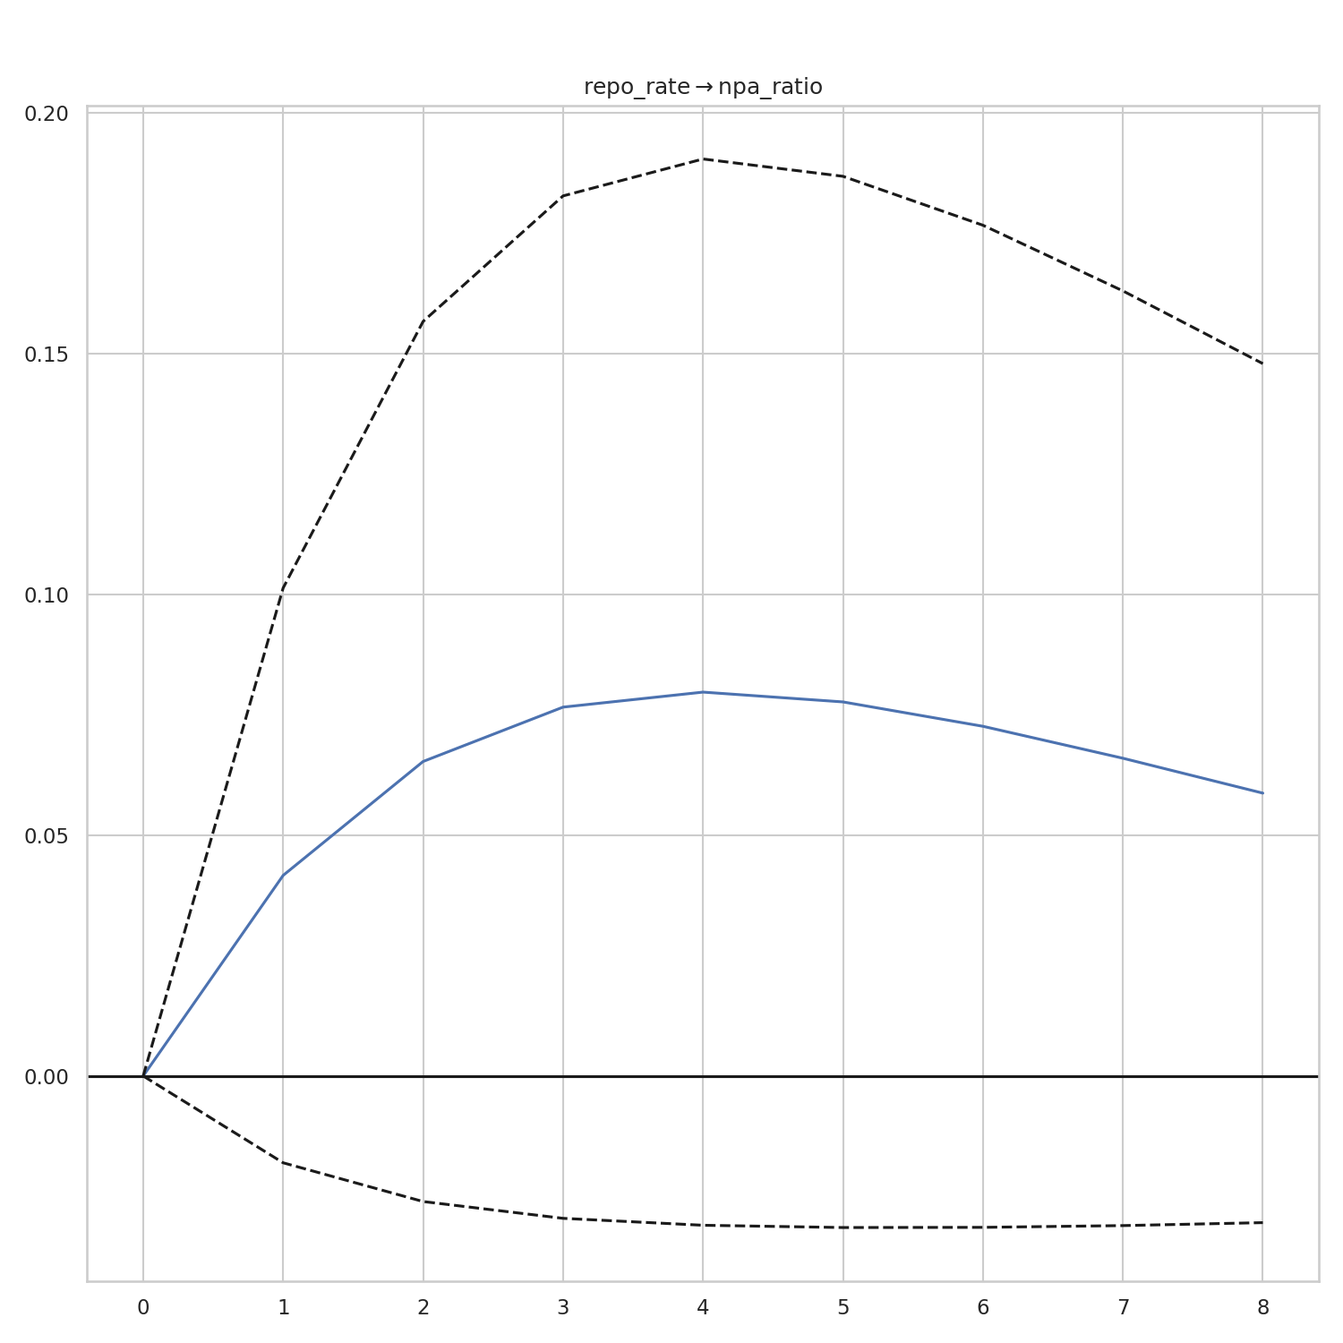
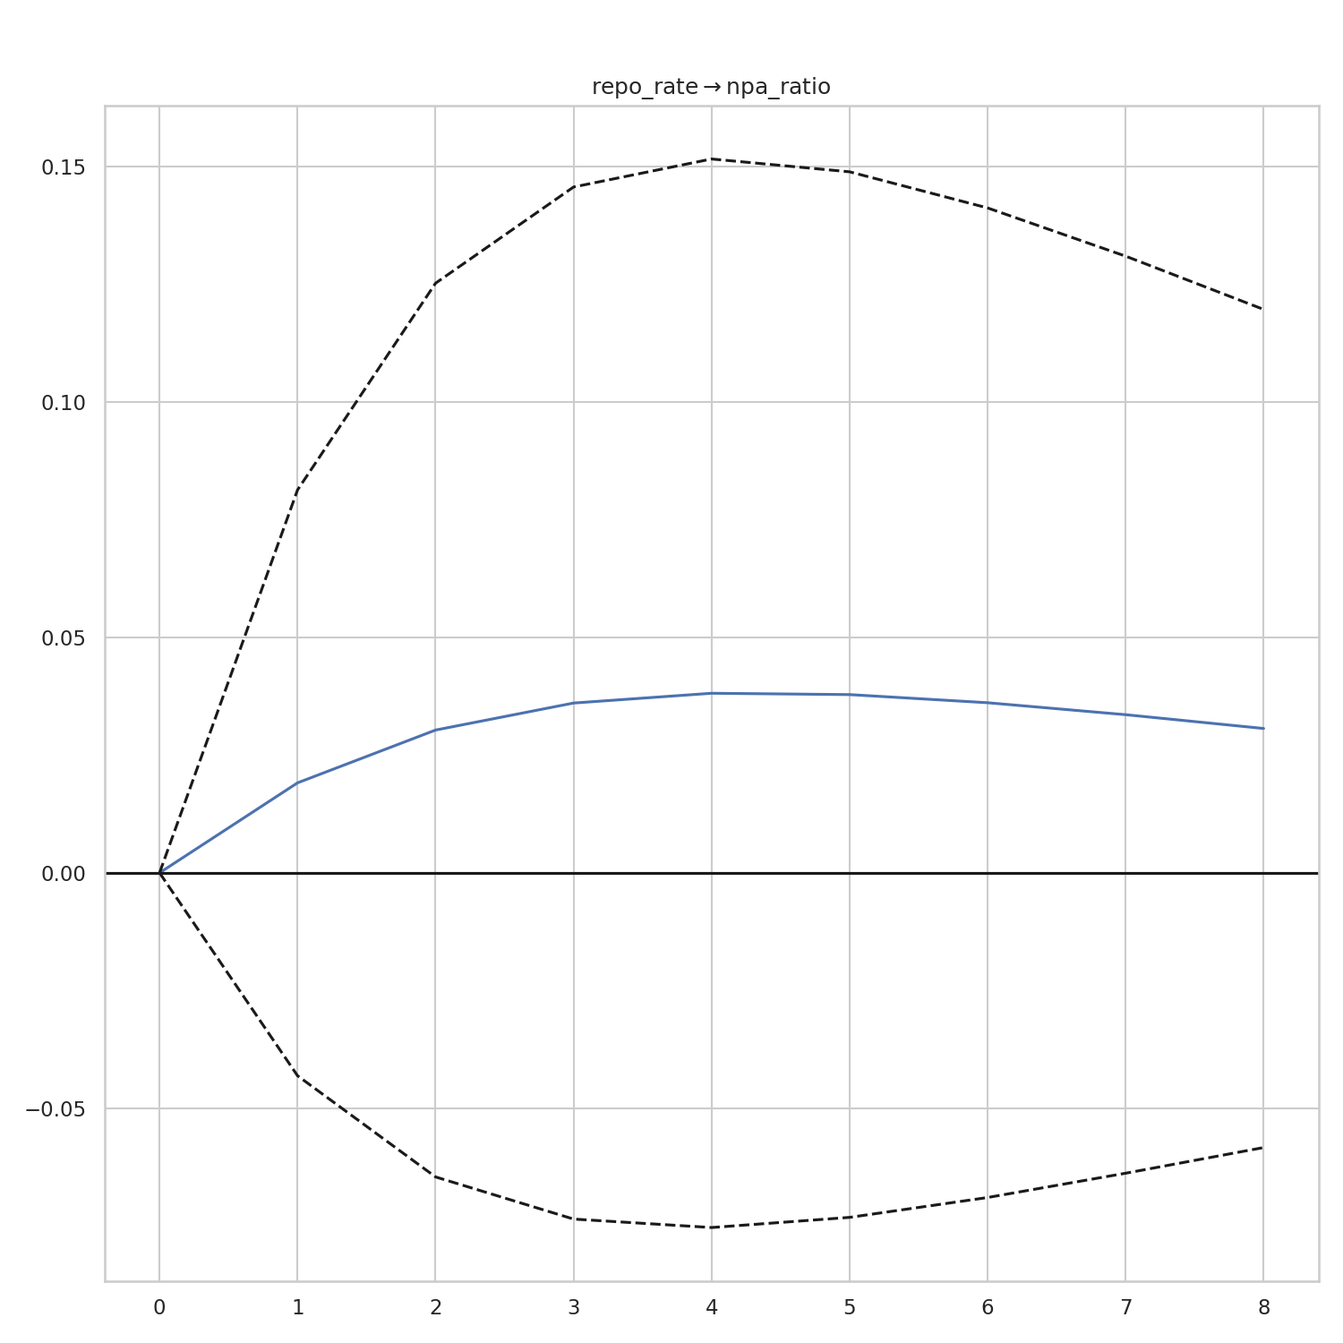
Fix VAR preprocessing and reporting

diff --git a/analysis.py b/analysis.py
@@ -260,6 +260,7 @@ def prepare_member_b_methods(
             "## Lag Selection",
             f"- Chosen lag order = {chosen_lag} using {choice_rule}.",
             "- Full information-criterion table is saved in `outputs/var_lag_order.csv`.",
+            "- Note that AIC selected lag=5 while BIC selected lag=1; this large gap is itself a signal that the short interpolated sample does not contain enough independent information to distinguish between lag structures reliably.",
             "",
             "## Diagnostics",
             f"- VAR stable = {stable}. Stability plot saved to `outputs/var_stability.png`.",
@@ -323,8 +324,8 @@ def prepare_member_c_results(
 
 
 def prepare_report(
-    min_year: int,
-    max_year: int,
+    sample_start: str,
+    sample_end: str,
     timeline_note: str,
     adf_df: pd.DataFrame,
     diff_cols: list[str],
@@ -362,7 +363,7 @@ def prepare_report(
             "# RBI Rate Policy and Bank Stress: VAR Analysis",
             "",
             "## Data",
-            f"We construct a quarterly panel from {min_year}Q1 to {max_year}Q4 using three series for India. "
+            f"We construct a quarterly panel from {sample_start} to {sample_end} using three series for India. "
             "The Gross NPA ratio comes from RBI Statistical Tables for All Scheduled Commercial Banks. "
             "The two macro-financial controls come from the provided World Bank files: real interest rate as the repo-rate proxy and real GDP growth as the output control. "
             "Because the World Bank files are annual, they are linearly interpolated to quarterly frequency to match the project brief. "
@@ -399,6 +400,7 @@ def prepare_report(
             "- The original credit-growth control was dropped because the provided World Bank credit series for India ends in 2021.",
             "- The project files do not contain the literal RBI repo-rate series, so the real interest rate is used as a proxy.",
             "- RBI NPA values are reported at the March fiscal year-end; we align them to calendar Q1 of the named year, while the World Bank annual series remain a coarse calendar-year proxy.",
+            "- GDP growth (World Bank NY.GDP.MKTP.KD.ZG) is already a percentage-change series; the ADF test classified it as non-stationary so it was differenced once, meaning the VAR uses the quarter-on-quarter change in GDP growth (acceleration), not the growth rate itself.",
             "- Results should be presented as indicative rather than as a definitive structural causal estimate.",
             "",
             "## Outputs",
@@ -422,6 +424,7 @@ def prepare_slides(
     npa_to_repo_p: float,
     peak_idx: int,
     peak_val: float,
+    whiteness_p: float,
 ) -> str:
     return "\n".join(
         [
@@ -434,7 +437,7 @@ def prepare_slides(
             "2013-2018 NPA spike, macro stress, and possible policy feedback.",
             "",
             "3. Data",
-            "Three series, 2005Q1-2022Q4, RBI + World Bank, annual macro data interpolated to quarterly frequency. Explain that the credit-growth control was dropped because its source coverage ended in 2021.",
+            "Three series, 2005Q4-2022Q1, RBI + World Bank, annual macro data interpolated to quarterly frequency. Explain that the credit-growth control was dropped because its source coverage ended in 2021.",
             "",
             "4. Timeline plot",
             "Use `outputs/timeline.png`; highlight the 2015-16 tightening window.",
@@ -443,10 +446,10 @@ def prepare_slides(
             "Use `outputs/adf_results.csv`; explain which series were differenced and note that annual-to-quarterly interpolation can create overly smooth stationarity patterns.",
             "",
             "6. VAR setup",
-            f"Lag order = {chosen_lag}; explain why BIC/AIC was used and that the final model is a 3-variable VAR.",
+            f"Lag order = {chosen_lag}; explain why BIC/AIC was used and that the final model is a 3-variable VAR. Note: AIC disagrees, selecting lag=5, so mention this gap explicitly.",
             "",
             "7. Diagnostics and stability",
-            "VAR is stable (all inverse roots inside unit circle). Durbin-Watson ~= 2 across equations - no severe autocorrelation. Portmanteau test flags residual correlation (p = 0.001), likely from annual->quarterly interpolation smoothness and repeated within-year first differences. Model is treated as indicative, not structural.",
+            f"VAR is stable (all inverse roots inside unit circle). Durbin-Watson ~= 2 across equations - no severe autocorrelation. Portmanteau test flags residual correlation (p = {whiteness_p:.4f}), likely from annual->quarterly interpolation smoothness and repeated within-year first differences. Model is treated as indicative, not structural.",
             "",
             "8. Granger causality",
             f"Repo -> NPA p-value = {repo_to_npa_p:.4f}; NPA -> Repo p-value = {npa_to_repo_p:.4f}.",
@@ -465,6 +468,7 @@ def prepare_slides(
             "",
             "Portmanteau test flags residual whiteness issue - standard caveat for interpolated short panels. A robustness check with true quarterly RBI repo and credit data would resolve this.",
             "NPA observations are fiscal-year-end (March) values aligned to Q1, so there is still some calendar/fiscal timing approximation in the merged panel.",
+            "GDP growth is already a percentage-change series, but it was differenced after the ADF test classified it as non-stationary, so the VAR uses changes in GDP growth rather than the growth rate itself.",
         ]
     )
 
@@ -493,12 +497,15 @@ def main() -> None:
             name,
             min_year,
             max_year,
-            anchor_quarter=1 if name == "npa_ratio" else 4,
+            anchor_quarter=1,
         )
         for name, df in series_meta.items()
     }
     data = pd.DataFrame(quarterly)
+    data = data.loc["2005Q4":"2022Q1"]
     data.index.name = "quarter"
+    sample_start = str(data.index.min())
+    sample_end = str(data.index.max())
     data.to_csv(OUT_DIR / "cleaned_quarterly.csv")
 
     build_timeline_plot(data)
@@ -517,7 +524,7 @@ def main() -> None:
     for col in diff_cols:
         data_var[col] = data_var[col].diff()
     data_var = data_var.dropna()
-    data_var = data_var.loc[~(data_var[diff_cols] == 0).all(axis=1)]
+    data_var = data_var.loc[~(data_var["npa_ratio"] == 0)]
     data_var.to_csv(OUT_DIR / "cleaned_quarterly_differenced.csv")
 
     model = VAR(data_var)
@@ -607,8 +614,8 @@ def main() -> None:
 
     Path("report.md").write_text(
         prepare_report(
-            min_year,
-            max_year,
+            sample_start,
+            sample_end,
             timeline_note,
             adf_df,
             diff_cols,
@@ -631,6 +638,7 @@ def main() -> None:
             float(granger_df.iloc[1]["p_value"]),
             peak_idx,
             peak_val,
+            float(diagnostics_df["whiteness_pvalue"].iloc[0]),
         ),
         encoding="utf-8",
     )
@@ -640,6 +648,8 @@ def main() -> None:
             {
                 "min_year": min_year,
                 "max_year": max_year,
+                "sample_start": sample_start,
+                "sample_end": sample_end,
                 "diff_cols": diff_cols,
                 "lag_choice": choice_rule,
                 "chosen_lag": chosen_lag,

diff --git a/report.md b/report.md
@@ -1,19 +1,19 @@
 # RBI Rate Policy and Bank Stress: VAR Analysis
 
 ## Data
-We construct a quarterly panel from 2005Q1 to 2022Q4 using three series for India. The Gross NPA ratio comes from RBI Statistical Tables for All Scheduled Commercial Banks. The two macro-financial controls come from the provided World Bank files: real interest rate as the repo-rate proxy and real GDP growth as the output control. Because the World Bank files are annual, they are linearly interpolated to quarterly frequency to match the project brief. We drop the original credit-growth control from the final VAR because the provided World Bank credit series for India ends in 2021 and would otherwise shorten the sample materially.
+We construct a quarterly panel from 2005Q4 to 2022Q1 using three series for India. The Gross NPA ratio comes from RBI Statistical Tables for All Scheduled Commercial Banks. The two macro-financial controls come from the provided World Bank files: real interest rate as the repo-rate proxy and real GDP growth as the output control. Because the World Bank files are annual, they are linearly interpolated to quarterly frequency to match the project brief. We drop the original credit-growth control from the final VAR because the provided World Bank credit series for India ends in 2021 and would otherwise shorten the sample materially.
 
-The timeline shows a pronounced banking-stress cycle: the interpolated Gross NPA ratio rises from 3.23% in 2013Q1 to a local peak of 11.18% in 2018Q1. The repo-rate proxy is highest in 2015Q4 and remains elevated through the 2015-16 policy-tightening window (about 6.91% in 2015Q1 and 6.23% in 2016Q4). GDP growth also softens around the same period, so the visual story is consistent with a broad macro-financial stress episode rather than a clean one-variable shock.
+The timeline shows a pronounced banking-stress cycle: the interpolated Gross NPA ratio rises from 3.23% in 2013Q1 to a local peak of 11.18% in 2018Q1. The repo-rate proxy is highest in 2015Q1 and remains elevated through the 2015-16 policy-tightening window (about 7.56% in 2015Q1 and 5.55% in 2016Q4). GDP growth also softens around the same period, so the visual story is consistent with a broad macro-financial stress episode rather than a clean one-variable shock.
 
 ## Methods
-We ran Augmented Dickey-Fuller tests on each series and treated p-values below 0.05 as evidence of stationarity. The ADF results were: gdp_growth: p=0.186, npa_ratio: p=0.351, repo_rate: p=0.119. The series differenced once before estimation were: gdp_growth, npa_ratio, repo_rate. We then estimated a 3-variable VAR with lag order 1, selected by BIC from the information criteria table. Diagnostics show Durbin-Watson values of npa_ratio=1.87, repo_rate=1.75, gdp_growth=1.74; the system is stable = True; whiteness check: Portmanteau stat = 70.4660, p = 0.0005.
+We ran Augmented Dickey-Fuller tests on each series and treated p-values below 0.05 as evidence of stationarity. The ADF results were: gdp_growth: p=0.304, npa_ratio: p=0.305, repo_rate: p=0.139. The series differenced once before estimation were: gdp_growth, npa_ratio, repo_rate. We then estimated a 3-variable VAR with lag order 1, selected by BIC from the information criteria table. Diagnostics show Durbin-Watson values of npa_ratio=1.85, repo_rate=1.63, gdp_growth=1.74; the system is stable = True; whiteness check: Portmanteau stat = 57.8661, p = 0.0119.
 
 ## Diagnostics
-The Portmanteau test rejects residual whiteness (p = 0.0005), which is common in short interpolated quarterly panels and likely reflects the mechanical smoothness introduced by annual-to-quarterly interpolation rather than a structural model misspecification. The VAR is stable and the Durbin-Watson values are close to 2.0 across all equations, so the results are treated as indicative.
+The Portmanteau test rejects residual whiteness (p = 0.0119), which is common in short interpolated quarterly panels and likely reflects the mechanical smoothness introduced by annual-to-quarterly interpolation rather than a structural model misspecification. The VAR is stable and the Durbin-Watson values are close to 2.0 across all equations, so the results are treated as indicative.
 More specifically, linear annual-to-quarterly interpolation creates repeated intra-year step sizes, so after differencing several adjacent quarterly observations can be mechanically very similar rather than genuinely independent. That means the exact Granger and Portmanteau p-values should be interpreted cautiously even though the overall non-significant direction-of-causality result is still informative.
 
 ## Results
-The main Granger result is negative in both directions. For repo-rate history predicting NPA movements, the test yields F = 1.8711 and p = 0.1729, which is essentially no predictive power in this specification. For NPA history predicting the repo-rate proxy, the test yields F = 0.0570 and p = 0.8115. The impulse-response function shows a peak absolute NPA response of 0.0797 after 4 quarters following a one-unit repo-rate shock. At the 8-quarter horizon, the FEVD for NPA variance is npa_ratio=0.90, repo_rate=0.09, gdp_growth=0.01.
+The main Granger result is negative in both directions. For repo-rate history predicting NPA movements, the test yields F = 0.3626 and p = 0.5478, which is essentially no predictive power in this specification. For NPA history predicting the repo-rate proxy, the test yields F = 0.0104 and p = 0.9187. The impulse-response function shows a peak absolute NPA response of 0.0381 after 4 quarters following a one-unit repo-rate shock. At the 8-quarter horizon, the FEVD for NPA variance is npa_ratio=0.97, repo_rate=0.02, gdp_growth=0.00.
 
 ## Conclusion
 On the provided dataset, we do not find statistically significant evidence that the repo-rate proxy Granger-causes the NPA ratio, nor that the NPA ratio Granger-causes the repo-rate proxy, at the 5% level. The estimated dynamics are economically modest, and the decomposition suggests that NPA's own momentum dominates while the rate proxy and GDP control contribute only small shares in this setup. Given the proxy rate, interpolated macro series, and the diagnostic caveat above, these results are best interpreted as exploratory evidence rather than a structural causal estimate. The core finding, that neither direction of causality is significant in this specification, is robust to the lag selection and stable across the 3-variable setup.
@@ -24,6 +24,7 @@ On the provided dataset, we do not find statistically significant evidence that 
 - The original credit-growth control was dropped because the provided World Bank credit series for India ends in 2021.
 - The project files do not contain the literal RBI repo-rate series, so the real interest rate is used as a proxy.
 - RBI NPA values are reported at the March fiscal year-end; we align them to calendar Q1 of the named year, while the World Bank annual series remain a coarse calendar-year proxy.
+- GDP growth (World Bank NY.GDP.MKTP.KD.ZG) is already a percentage-change series; the ADF test classified it as non-stationary so it was differenced once, meaning the VAR uses the quarter-on-quarter change in GDP growth (acceleration), not the growth rate itself.
 - Results should be presented as indicative rather than as a definitive structural causal estimate.
 
 ## Outputs

diff --git a/slides.md b/slides.md
@@ -7,7 +7,7 @@ Question: Does RBI rate policy cause bank stress, or does bank stress cause the 
 2013-2018 NPA spike, macro stress, and possible policy feedback.
 
 3. Data
-Three series, 2005Q1-2022Q4, RBI + World Bank, annual macro data interpolated to quarterly frequency. Explain that the credit-growth control was dropped because its source coverage ended in 2021.
+Three series, 2005Q4-2022Q1, RBI + World Bank, annual macro data interpolated to quarterly frequency. Explain that the credit-growth control was dropped because its source coverage ended in 2021.
 
 4. Timeline plot
 Use `outputs/timeline.png`; highlight the 2015-16 tightening window.
@@ -16,16 +16,16 @@ Use `outputs/timeline.png`; highlight the 2015-16 tightening window.
 Use `outputs/adf_results.csv`; explain which series were differenced and note that annual-to-quarterly interpolation can create overly smooth stationarity patterns.
 
 6. VAR setup
-Lag order = 1; explain why BIC/AIC was used and that the final model is a 3-variable VAR.
+Lag order = 1; explain why BIC/AIC was used and that the final model is a 3-variable VAR. Note: AIC disagrees, selecting lag=5, so mention this gap explicitly.
 
 7. Diagnostics and stability
-VAR is stable (all inverse roots inside unit circle). Durbin-Watson ~= 2 across equations - no severe autocorrelation. Portmanteau test flags residual correlation (p = 0.001), likely from annual->quarterly interpolation smoothness and repeated within-year first differences. Model is treated as indicative, not structural.
+VAR is stable (all inverse roots inside unit circle). Durbin-Watson ~= 2 across equations - no severe autocorrelation. Portmanteau test flags residual correlation (p = 0.0119), likely from annual->quarterly interpolation smoothness and repeated within-year first differences. Model is treated as indicative, not structural.
 
 8. Granger causality
-Repo -> NPA p-value = 0.1729; NPA -> Repo p-value = 0.8115.
+Repo -> NPA p-value = 0.5478; NPA -> Repo p-value = 0.9187.
 
 9. Impulse response
-Use `outputs/irf_npa_repo.png`; peak absolute response = 0.0797 after 4 quarters.
+Use `outputs/irf_npa_repo.png`; peak absolute response = 0.0381 after 4 quarters.
 
 10. FEVD
 Use `outputs/fevd_npa.png`; explain the medium-run variance shares for NPA across the three retained variables.
@@ -38,3 +38,4 @@ Interpolation, proxy rate series, and the dropped credit control; suggest robust
 
 Portmanteau test flags residual whiteness issue - standard caveat for interpolated short panels. A robustness check with true quarterly RBI repo and credit data would resolve this.
 NPA observations are fiscal-year-end (March) values aligned to Q1, so there is still some calendar/fiscal timing approximation in the merged panel.
+GDP growth is already a percentage-change series, but it was differenced after the ADF test classified it as non-stationary, so the VAR uses changes in GDP growth rather than the growth rate itself.

diff --git a/outputs/member_c_results.md b/outputs/member_c_results.md
@@ -1,16 +1,16 @@
 # Member C Deliverable
 
 ## Results
-- Repo rate -> NPA Granger test: F = 1.8711, p = 0.1729.
-- NPA -> repo rate Granger test: F = 0.0570, p = 0.8115.
-- IRF peak absolute NPA response occurs after 4 quarters with magnitude 0.0797.
+- Repo rate -> NPA Granger test: F = 0.3626, p = 0.5478.
+- NPA -> repo rate Granger test: F = 0.0104, p = 0.9187.
+- IRF peak absolute NPA response occurs after 4 quarters with magnitude 0.0381.
 - IRF chart saved to `outputs/irf_npa_repo.png`.
 - FEVD chart saved to `outputs/fevd_npa.png`.
 
 ## FEVD at 8 Quarters
-- npa_ratio: 0.897
-- repo_rate: 0.094
-- gdp_growth: 0.009
+- npa_ratio: 0.974
+- repo_rate: 0.022
+- gdp_growth: 0.004
 
 ## Conclusion Paragraph
-In this specification, the data do not provide statistically significant Granger-causal evidence in either direction between the repo-rate proxy and the NPA ratio at the 5% level. The repo-to-NPA result in particular shows essentially no predictive power in this setup, with p = 0.1729. The impulse response is modest and the FEVD shows that medium-run NPA forecast variance is dominated by the NPA series' own shocks, with only a small share coming from the repo-rate proxy or GDP control. Given the annual-to-quarterly interpolation and the use of a real-interest-rate proxy instead of the literal RBI repo series, the correct presentation is cautious: we find no meaningful directional evidence here, and the proxy choice is a major limitation.
+In this specification, the data do not provide statistically significant Granger-causal evidence in either direction between the repo-rate proxy and the NPA ratio at the 5% level. The repo-to-NPA result in particular shows essentially no predictive power in this setup, with p = 0.5478. The impulse response is modest and the FEVD shows that medium-run NPA forecast variance is dominated by the NPA series' own shocks, with only a small share coming from the repo-rate proxy or GDP control. Given the annual-to-quarterly interpolation and the use of a real-interest-rate proxy instead of the literal RBI repo series, the correct presentation is cautious: we find no meaningful directional evidence here, and the proxy choice is a major limitation.

diff --git a/outputs/member_a_review.md b/outputs/member_a_review.md
@@ -5,11 +5,11 @@ Original repository check:
 
 Current completion status after fixes:
 - Week 1 complete: the three source files used in the final model are present in `data/`; the old credit file is still present but intentionally unused.
-- Week 2 complete: merged quarterly dataset saved to `outputs/cleaned_quarterly.csv` with 72 rows and 3 columns.
+- Week 2 complete: merged quarterly dataset saved to `outputs/cleaned_quarterly.csv` with 66 rows and 3 columns.
 - Week 3 complete: `outputs/timeline.png` marks the 2015-16 rate-hike window and the timeline paragraph is written below.
 - Week 4 complete: differenced dataset saved to `outputs/cleaned_quarterly_differenced.csv`.
 - Week 5 support complete: Data section is written into `report.md`.
 - Week 6 support complete: slides 1-3 content is present in `slides.md`.
 
 Timeline paragraph:
-The timeline shows a pronounced banking-stress cycle: the interpolated Gross NPA ratio rises from 3.23% in 2013Q1 to a local peak of 11.18% in 2018Q1. The repo-rate proxy is highest in 2015Q4 and remains elevated through the 2015-16 policy-tightening window (about 6.91% in 2015Q1 and 6.23% in 2016Q4). GDP growth also softens around the same period, so the visual story is consistent with a broad macro-financial stress episode rather than a clean one-variable shock.
+The timeline shows a pronounced banking-stress cycle: the interpolated Gross NPA ratio rises from 3.23% in 2013Q1 to a local peak of 11.18% in 2018Q1. The repo-rate proxy is highest in 2015Q1 and remains elevated through the 2015-16 policy-tightening window (about 7.56% in 2015Q1 and 5.55% in 2016Q4). GDP growth also softens around the same period, so the visual story is consistent with a broad macro-financial stress episode rather than a clean one-variable shock.

diff --git a/outputs/member_b_methods.md b/outputs/member_b_methods.md
@@ -1,20 +1,21 @@
 # Member B Deliverable
 
 ## Stationarity (ADF)
-- gdp_growth: p = 0.1863, stationary at 5% = False
-- npa_ratio: p = 0.3511, stationary at 5% = False
-- repo_rate: p = 0.1190, stationary at 5% = False
+- gdp_growth: p = 0.3042, stationary at 5% = False
+- npa_ratio: p = 0.3052, stationary at 5% = False
+- repo_rate: p = 0.1392, stationary at 5% = False
 
 ## Lag Selection
 - Chosen lag order = 1 using BIC.
 - Full information-criterion table is saved in `outputs/var_lag_order.csv`.
+- Note that AIC selected lag=5 while BIC selected lag=1; this large gap is itself a signal that the short interpolated sample does not contain enough independent information to distinguish between lag structures reliably.
 
 ## Diagnostics
 - VAR stable = True. Stability plot saved to `outputs/var_stability.png`.
-- npa_ratio: Durbin-Watson = 1.866
-- repo_rate: Durbin-Watson = 1.752
-- gdp_growth: Durbin-Watson = 1.739
-- Residual whiteness check: Portmanteau stat = 70.4660, p = 0.0005
+- npa_ratio: Durbin-Watson = 1.850
+- repo_rate: Durbin-Watson = 1.633
+- gdp_growth: Durbin-Watson = 1.735
+- Residual whiteness check: Portmanteau stat = 57.8661, p = 0.0119
 - Interpretation: The Portmanteau whiteness test rejects residual whiteness at the 5% level, so the fitted VAR should be presented as informative but not fully clean on residual autocorrelation.
 
 ## Methods Paragraph
